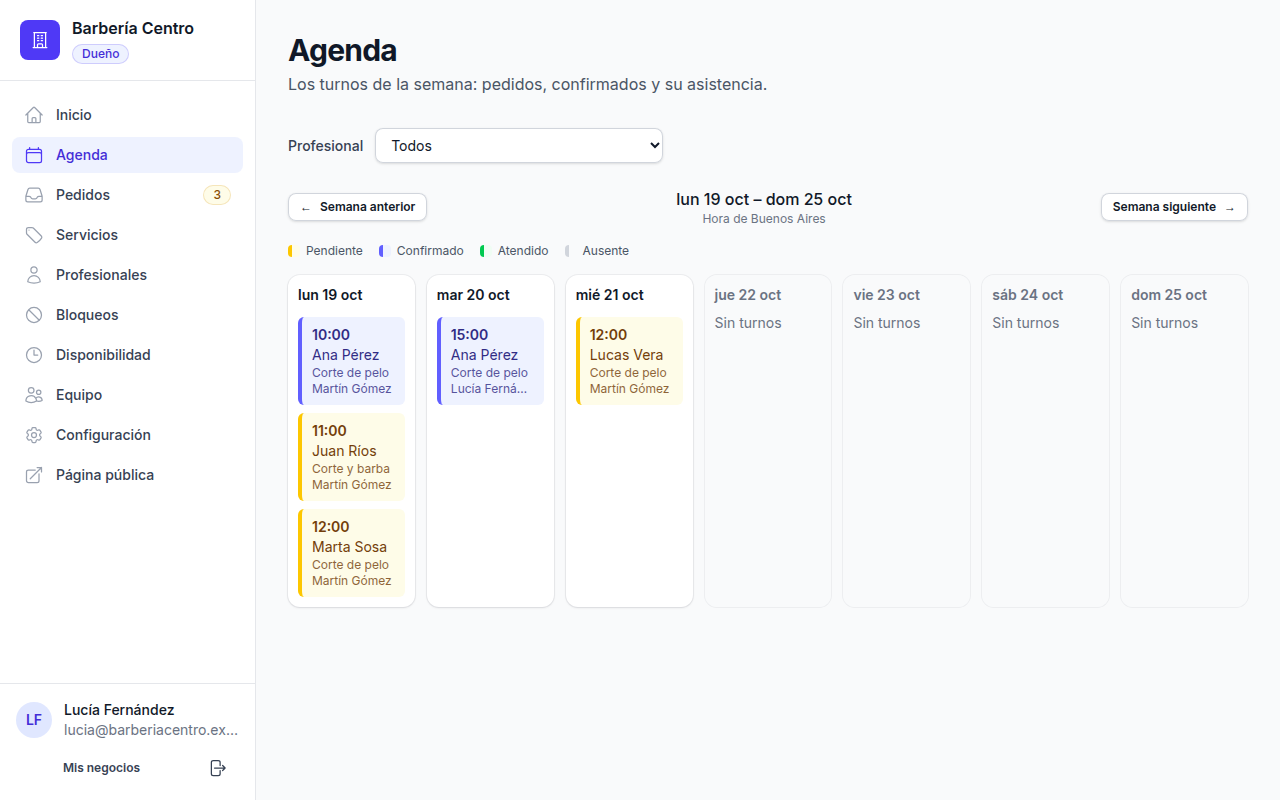
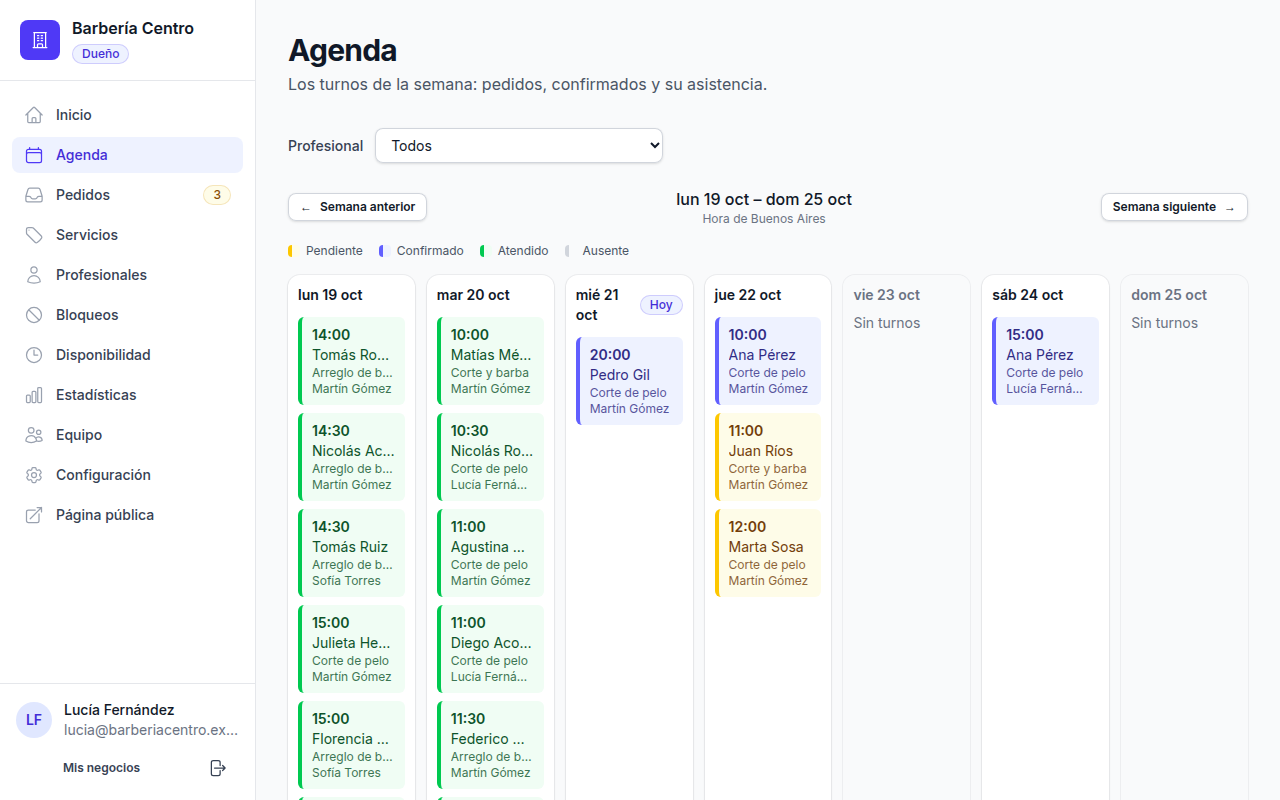
Document the statistics and the cache in the README and CLAUDE.md

diff --git a/README.md b/README.md
@@ -18,6 +18,7 @@ Built with Rails 8.1, Ruby 3.4, PostgreSQL, Hotwire and Tailwind 4. No Node, no 
   - [Appointment lifecycle](#appointment-lifecycle)
   - [Emails, calendar files and reminders](#emails-calendar-files-and-reminders)
   - [Live updates](#live-updates)
+  - [Statistics and caching](#statistics-and-caching)
   - [Time zones and languages](#time-zones-and-languages)
 - [Security](#security)
 - [Testing](#testing)
@@ -39,6 +40,7 @@ Built with Rails 8.1, Ruby 3.4, PostgreSQL, Hotwire and Tailwind 4. No Node, no 
 - **Sign up** at `/signup` and a **setup assistant**: the business's details, a first service, who offers it and their weekly hours, until the public page takes bookings. Signed in users can add more businesses to their account.
 - **A live panel:** a dashboard with pending requests and today's appointments, a requests list (the ones expiring first on top) and a weekly agenda per professional or of everyone. Everything refreshes by itself when a request comes in or an appointment changes.
 - **Request management:** confirm or reject (with a reason the customer sees), reassign to another free professional, cancel with a reason, and mark attendance once the appointment starts. Requests nobody answers expire on their own, and every change is kept in the appointment's history.
+- **Statistics** for this month, last month or the last 90 days: appointments by status and the no-show rate, revenue, the most requested services, each professional's occupancy, peak days and hours, new and returning customers, and how long the team takes to answer. Owners and admins see the whole business; professionals, their own numbers.
 - **Services and professionals:** duration, price, optional break and rich text description; profiles with photo, offered services and an optional linked account. Neither is ever deleted, only deactivated.
 - **Weekly hours and blocks:** several ranges per day, and blocks for vacations or errands (exact times or whole days).
 - **Team and roles:** the owner invites admins and professionals by email (single use links, valid for 7 days), changes their roles and removes them. Owners and admins manage everything; professionals answer and manage their own appointments.
@@ -65,11 +67,15 @@ Built with Rails 8.1, Ruby 3.4, PostgreSQL, Hotwire and Tailwind 4. No Node, no 
 | ![A confirmed appointment on a phone, with the add to calendar button](doc/screenshots/customer-appointment-mobile.png) | ![The confirmation email of a football court booking](doc/screenshots/email-confirmed.png) |
 | **The customer's link** on a phone: status, details, calendar file, cancel or reschedule | **Confirmation email** in the business's name, with the `.ics` attached |
 
+![The statistics page: attended appointments, revenue, no-shows, response time, appointments by status and each professional's occupancy](doc/screenshots/panel-statistics.png)
+
+**Statistics:** the month's numbers for the whole business, from the cache
+
 ![The platform panel listing every business with its owner, members and appointments](doc/screenshots/platform.png)
 
 ## Architecture
 
-![Bookly's architecture: customers, the business team and the platform admin talk to one Rails app over HTML and receive refreshes over Action Cable; Rails resolves the tenant, runs the booking domain and, after each commit, emails through Solid Queue and broadcasts refreshes; three PostgreSQL databases hold the app's data, the job queue and the cable messages](doc/architecture.svg)
+![Bookly's architecture: customers, the business team and the platform admin talk to one Rails app over HTML and receive refreshes over Action Cable; Rails resolves the tenant, runs the booking domain and, after each commit, emails through Solid Queue and broadcasts refreshes; four PostgreSQL databases hold the app's data, the cable messages, the cache and the job queue](doc/architecture.svg)
 
 Bookly is a single Rails app rendering HTML. Hotwire does the rest on the client: Turbo Drive for navigation and forms, Turbo 8 page refreshes for live updates and a few Stimulus controllers.
 
@@ -77,7 +83,7 @@ Bookly is a single Rails app rendering HTML. Hotwire does the rest on the client
 - **The tenant comes from the URL.** `SetCurrentBusiness` finds the business by its slug, sets `Current.business` and wraps the request in its language and time zone. Every per-business model includes `BusinessScoped`, which filters each query by the current business and fails closed: with no business set, a query raises instead of returning everyone's rows.
 - **Domain logic in models and form objects.** `Availability` computes free times; `Appointment` owns its transitions (each one locks the row, checks the status, saves and records an `AppointmentEvent` in one transaction); form objects (`AppointmentRequest`, `AppointmentReschedule`, `BusinessRegistration`, `SetupHours`) handle what spans several records.
 - **Side effects after commit.** An `AppointmentEvent` notifies the right people when its transaction commits, and an appointment broadcasts a refresh. A rolled back change emails nobody and refreshes nothing.
-- **Solid Queue, Solid Cable and Solid Cache** replace Redis: jobs, websocket messages and cache live in their own PostgreSQL databases. `bin/jobs` runs the job workers and two recurring jobs: `ExpireRequestsJob` every minute and `SendRemindersJob` every five minutes.
+- **Solid Queue, Solid Cable and Solid Cache** replace Redis: jobs, websocket messages and cache live in their own PostgreSQL databases. `bin/jobs` runs the job workers and two recurring jobs: `ExpireRequestsJob` every minute and `SendRemindersJob` every five minutes. The cache holds the statistics and the rate limits' counters.
 - **Deployment** is set up for Kamal with Docker, with Thruster in front of Puma (not deployed yet).
 
 ## Data model
@@ -140,6 +146,12 @@ Every transition locks the appointment's row, checks that it still applies and r
 
 Pages that show appointments (the panel's dashboard, requests and agenda, the public week of free times, the customer's link) subscribe to a stream and refresh themselves with Turbo 8 morphing, keeping the scroll. Broadcasts carry no data, only "something changed": each page reloads with its viewer's own permissions, so nothing can leak between professionals or businesses, and there are no partials to keep in sync. Stream names are signed and include the business. Pages with forms don't subscribe, so a refresh never wipes what someone is typing.
 
+### Statistics and caching
+
+`BusinessStats` calculates a period's numbers from the appointments the member can see (`Membership#visible_appointments`), so professionals get their own without a separate code path. Each number is one aggregate query in PostgreSQL: counts and sums grouped by status, service or professional, peak hours with `EXTRACT` on the start converted to the business's time zone, new customers by their first appointment, and the response time as a `PERCENTILE_CONT` median over the appointment's history, using `LAG` to find when each answered request became pending. Occupancy compares the booked minutes with the professionals' weekly hours on each day of the period, less their blocks.
+
+The result is a hash of plain values, cached as a whole in Solid Cache. The key holds the business, the period's first day (so "this month" changes key when the month does), who's looking (managers share one entry; each professional has their own) and a version to bump if the hash changes shape. Nothing invalidates it on a change; it expires instead: after 10 minutes for a period still going on, after a day for a closed one, which only changes when attendance is marked late. The page says how old the numbers are. Invalidating on every appointment change would mean a query per visit to check, for numbers nobody needs to the minute.
+
 ### Time zones and languages
 
 Instants are stored in UTC and shown in the business's time zone; inside a request `Time.zone` is the business's. Working hours are wall clock times (`09:00` means nine in the business's zone, whatever the season). Every string goes through `t()` in Spanish and English, missing translations raise in development and test, and a spec fails if both languages don't define the same keys.
@@ -156,8 +168,9 @@ Instants are stored in UTC and shown in the business's time zone; inside a reque
 
 ## Testing
 
-- **RSpec** with FactoryBot: about 800 examples covering models, form objects, jobs, mailers, helpers and requests. Request specs exercise the full stack (routing, tenancy, permissions, rendering) against a real PostgreSQL database, with no mocks of the database: the exclusion and check constraints are tested too.
-- **Time is frozen** (`travel_to`) wherever the result depends on it: availability, expiration, reminders, the agenda.
+- **RSpec** with FactoryBot: about 830 examples covering models, form objects, jobs, mailers, helpers and requests. Request specs exercise the full stack (routing, tenancy, permissions, rendering) against a real PostgreSQL database, with no mocks of the database: the exclusion and check constraints are tested too.
+- **Time is frozen** (`travel_to`) wherever the result depends on it: availability, expiration, reminders, the agenda, the statistics' periods.
+- **The statistics** are tested metric by metric against hand-built histories (the period's edges in the business's time zone, prices copied at booking, reassignments that don't restart the response clock), and their cache by its hits, its expirations and the entries each member and business gets.
 - **Live updates** are tested by checking which signed streams each page subscribes to, and the broadcasts each change makes.
 - **Emails** are tested in both languages and time zones, including their `.ics` attachments, and every email has a preview at `/rails/mailers` built from the seeded data.
 - **CI** (GitHub Actions, mirrored locally by `bin/ci`) runs RuboCop, the three audits and the suite.
@@ -190,7 +203,9 @@ bin/rails db:seed         # sample businesses and users
 bin/dev                   # web server on http://localhost:3000, background jobs and Tailwind watcher
 ```
 
-Background jobs (Solid Queue, `bin/jobs`) and live updates (Solid Cable) use their own databases in development too (`bookly_development_queue` and `bookly_development_cable`, created by `bin/setup`). `bin/dev` runs the jobs; without them requests don't expire, reminders aren't sent and no email goes out.
+Background jobs (Solid Queue, `bin/jobs`), live updates (Solid Cable) and the cache (Solid Cache) use their own databases in development too (`bookly_development_queue`, `bookly_development_cable` and `bookly_development_cache`, created by `bin/setup`). `bin/dev` runs the jobs; without them requests don't expire, reminders aren't sent and no email goes out.
+
+Caching is off in development until `bin/rails dev:cache` turns it on (run it again to turn it off). While it's off, the statistics are calculated on every visit and rate limits don't count.
 
 ### Sample data
 
@@ -211,7 +226,7 @@ Sample users, all with the password `password` (sign in at http://localhost:3000
 | hernan@elpotrero.example | Owner of El Potrero Fútbol 5 |
 | admin@bookly.example | Platform admin (http://localhost:3000/platform) |
 
-Every business comes with services, professionals, weekly hours, a few upcoming blocks and some appointments in the coming days, with their history. Barbería Centro also gets, whenever it has none, a request expiring in two hours, an appointment that started an hour ago and a change of time waiting for an answer (Lucas Vera), to try answering requests and marking attendance in the panel (Pedidos / Agenda). It also has an inactive service, a professional profile without an account (Sofía Torres) to try inviting someone from their profile, and a rejected request, an appointment the business cancelled and an expired request.
+Every business comes with services, professionals, weekly hours, a few upcoming blocks and some appointments in the coming days, with their history. Barbería Centro also gets, whenever it has none, a request expiring in two hours, an appointment that started an hour ago and a change of time waiting for an answer (Lucas Vera), to try answering requests and marking attendance in the panel (Pedidos / Agenda). It has the last 90 days of appointments too, with their outcomes and history, for the statistics page (Estadísticas). It also has an inactive service, a professional profile without an account (Sofía Torres) to try inviting someone from their profile, and a rejected request, an appointment the business cancelled and an expired request.
 
 To try a booking, use the button on a business page ("Pedir un turno" / "Book an appointment"). To try the sign up and the setup assistant, use "Registrar mi negocio" / "Sign up my business" on the landing page, or "Crear un negocio" from the businesses list when signed in.
 
@@ -243,6 +258,7 @@ bin/ci              # RuboCop, bundler-audit, importmap audit, Brakeman and RSpe
 
 After the MVP, step by step:
 
+- [x] Business statistics, cached with Solid Cache
 - [ ] Subdomains and branding
 - [ ] Schema-per-business migration (comparative exercise)
 - [ ] Deployment

diff --git a/CLAUDE.md b/CLAUDE.md
@@ -19,6 +19,7 @@ Multi-tenant appointment booking app, built in stages. Done so far:
 - Emails about every appointment change to the customer (with `.ics` calendar files) and about customers' actions to the team, plus reminders before confirmed appointments; see "Emails and reminders".
 - Business sign up, the owner's setup assistant, the business's details in settings and the platform panel; see "Sign up, setup and platform panel". This completes the MVP.
 - Project documentation: the README (features, architecture, data model, design decisions, security, testing) with diagrams and screenshots in `doc/`; see "Documentation".
+- Business statistics in the panel, cached with Solid Cache; see "Statistics".
 
 Owners sign up their business at `/signup`; everyone else joins a business by invitation.
 
@@ -40,7 +41,7 @@ bin/importmap audit            # JS dependency audit
 bin/ci                         # local CI pipeline defined in config/ci.rb
 ```
 
-Seeds (`bin/rails db:seed`) create three businesses (a barbershop, an English-speaking studio and a football court whose "professionals" are its pitches) with members, services, hours and appointments (plus, in Barbería Centro, a request about to expire, an appointment to mark attendance and a customer's pending change of time whenever there are none, and a rejected, a business-cancelled and an expired one for the email previews); every seeded user's password is `password`, and `admin@bookly.example` is a platform admin. Seeding emails nobody (`AppointmentNotifier.silence`). In development, sent emails are browsable at `/letter_opener`, and every email can be previewed with the seeded data at `/rails/mailers` (previews in `spec/mailers/previews`).
+Seeds (`bin/rails db:seed`) create three businesses (a barbershop, an English-speaking studio and a football court whose "professionals" are its pitches) with members, services, hours and appointments (plus, in Barbería Centro, a request about to expire, an appointment to mark attendance and a customer's pending change of time whenever there are none, and a rejected, a business-cancelled and an expired one for the email previews, plus the last 90 days of appointments with their history for the statistics, unless there are attended ones); every seeded user's password is `password`, and `admin@bookly.example` is a platform admin. Seeding emails nobody (`AppointmentNotifier.silence`). In development, sent emails are browsable at `/letter_opener`, and every email can be previewed with the seeded data at `/rails/mailers` (previews in `spec/mailers/previews`).
 
 `bin/ci` (config/ci.rb) mirrors the GitHub workflow (.github/workflows/ci.yml): RuboCop, bundler-audit, importmap audit, Brakeman, and RSpec. The GitHub `test` job runs against a Postgres service via `DATABASE_URL`.
 
@@ -52,8 +53,8 @@ Seeds (`bin/rails db:seed`) create three businesses (a barbershop, an English-sp
 
 ## Stack / architecture
 
-- **Database:** PostgreSQL (`bookly_development` / `bookly_test`, local socket, OS user). In production, Solid Cache/Queue/Cable each use a separate database (`bookly_production_cache`, `_queue`, `_cable`) with their own schemas in `db/*_schema.rb` and migration paths `db/{cache,queue,cable}_migrate`. Development does the same for Solid Queue and Solid Cable (`bookly_development_queue`, `_cable`); the test environment uses a single database with the `:test` job and cable adapters.
-- **Background jobs, cache, websockets:** Solid Queue, Solid Cache, Solid Cable (DB-backed; no Redis). Jobs run in `bin/jobs` (started by `bin/dev`); recurring ones are scheduled in `config/recurring.yml`. Solid Cable writes broadcasts from a background thread in batches, so a short-lived process (`bin/rails runner`) may exit before they're written; the web server and `bin/jobs` are fine.
+- **Database:** PostgreSQL (`bookly_development` / `bookly_test`, local socket, OS user). In production, Solid Cache/Queue/Cable each use a separate database (`bookly_production_cache`, `_queue`, `_cable`) with their own schemas in `db/*_schema.rb` and migration paths `db/{cache,queue,cable}_migrate`. Development does the same (`bookly_development_cache`, `_queue`, `_cable`); the test environment uses a single database with the `:test` job and cable adapters and a `:memory_store` cache (cleared before each example, `spec/support/cache.rb`).
+- **Background jobs, cache, websockets:** Solid Queue, Solid Cache, Solid Cable (DB-backed; no Redis). Jobs run in `bin/jobs` (started by `bin/dev`); recurring ones are scheduled in `config/recurring.yml`. In development the cache is Solid Cache only while `bin/rails dev:cache` has it on, `:null_store` otherwise (nothing cached, rate limits don't count). Solid Cable writes broadcasts from a background thread in batches, so a short-lived process (`bin/rails runner`) may exit before they're written; the web server and `bin/jobs` are fine.
 - **Frontend:** Hotwire (Turbo + Stimulus) via importmap — no Node/bundler. Stimulus controllers in `app/javascript/controllers` are auto-pinned. Add JS packages with `bin/importmap pin <pkg>`.
 - **CSS:** Tailwind 4 via `tailwindcss-rails`; source is `app/assets/tailwind/application.css`, compiled to `app/assets/builds/` (gitignored). Only classes found in views/helpers end up in the build, so keep `bin/dev` running (or `bin/rails tailwindcss:build`) after adding classes. Assets served by Propshaft.
 - **Testing:** RSpec (`spec/`) with FactoryBot; Minitest railtie is disabled and system test generation is turned off. Transactional fixtures are on. `FactoryBot::Syntax::Methods` is included (call `create`/`build` directly). Specs run in random order; `spec/examples.txt` persists status for `--only-failures`. Spec type is declared explicitly (`type: :request`, `type: :controller`); it is not inferred from the folder. `ActiveSupport::Testing::TimeHelpers` (`freeze_time`, `travel_to`) is included, and `spec/support/**` is auto-loaded. Request specs sign in with `sign_in_as(user)` (password `"password"`, the factory default).
@@ -180,6 +181,12 @@ Every page is built from the shared pieces below; don't hand-roll styles that al
 - Time zone, language and currency fields are shared by the sign up and the settings (`businesses/_regional_fields`, `BusinessesHelper`: `time_zone_options` lists IANA identifiers labeled with the Rails names). Currencies are limited to `Business::CURRENCIES`, named in `currencies.*` (`app.yml`).
 - The setup assistant (`Admin::SetupsController`, owner only): `admin_setup_path` opens the step to do next, `admin_setup_step_path(step)` a given one: `details` (optional) → `service` → `professional` (the owner, "myself", or someone else by name, offering every active service) → `hours` (`SetupHours`: one range on the chosen days for every active professional without hours, in one transaction) → `done` (the public link, only once the business takes bookings). The service and professional steps can add several. Nothing about the assistant is stored: `BusinessSetup` reads the progress from the data (an active service, an active professional offering one, their weekly hours, i.e. something bookable), so the regular pages count too. The sign up lands on `details`; until the setup is complete the owner's panel home shows a checklist (`admin/dashboards/_setup`).
 - The platform panel (`/platform`, `Platform::` controllers on `Platform::BaseController`, public layout) is for users with `platform_admin` (set from seeds or the console); anyone else gets a 404. It lists every business (newest first, searchable by name, slug or owner's email, filtered by status, 25 a page) with members and the last 30 days' appointments, shows each business's details, team and numbers, and suspends or reactivates it (`Business#suspend!`, with confirmation). Per-business numbers are read with `BusinessScoped.across_businesses` (the list) or `Current.set(business:)` (one business). Platform admins without a business land there after signing in, and the public header links to it.
+
+## Statistics
+
+- `Admin::StatisticsController` (`/:business_slug/admin/statistics?period=`, every member; a professional without a profile gets an empty state). `StatsPeriod` is `this_month`, `last_month` or `last_90_days` (whole days in `Time.zone`, today included; unknown keys fall back to `this_month`), with `range`, `days`, `current?` and `cache_key`.
+- `BusinessStats.new(membership, period).to_h` returns plain values (no records, so it can be cached): `outcomes` (every status), `no_show_rate`, `revenue_cents` (copied prices of attended appointments), `top_services`, `occupancy` (booked minutes of `on_agenda` appointments against the current weekly hours on each day, less blocks; managers see active professionals and anyone with appointments in the period), `peak_hours` (`{ [wday, hour] => count }` in the business's zone), `customers` (`new` when their first booked appointment is in the period) and `response_time` (median seconds from becoming pending to the team's confirm or reject, from `AppointmentEvent`; reassignments don't restart it). Everything comes from `Membership#visible_appointments`, and appointments belong to the period they start in. Each number is an aggregate query: keep it that way, no loading records into Ruby.
+- `BusinessStats.fetch(membership, period)` reads it through `Rails.cache`, adding `calculated_at`. The key is the business, the period's `cache_key`, the viewer (managers share one entry, each professional their own) and `BusinessStats::VERSION`: bump it when `to_h` changes shape. No invalidation on changes: entries expire (`CURRENT_PERIOD_EXPIRES_IN` 10 minutes, `CLOSED_PERIOD_EXPIRES_IN` a day).
 
 ## Multi-tenancy
 
